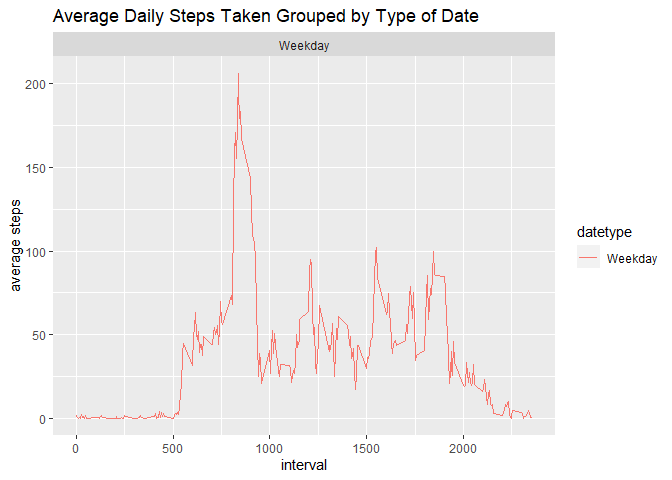
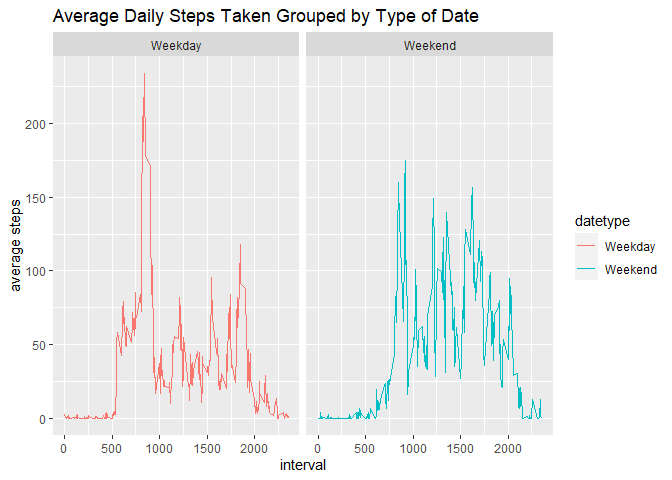
fix: fixed average daily steps taken by date type

diff --git a/PA1_template.html b/PA1_template.html
@@ -171,7 +171,8 @@ pre code {
 <p>Global settings</p>
 <pre class="r"><code>knitr::opts_chunk$set(warning=FALSE) # ignore any warnings</code></pre>
 <p>Before starting the project, let’s import the <strong>ggplot2</strong> libraries for plotting purposes</p>
-<pre class="r"><code>library(ggplot2)</code></pre>
+<pre class="r"><code>library(ggplot2)
+library(knitr)</code></pre>
 <div id="loading-and-preprocessing-the-data" class="section level2">
 <h2>Loading and preprocessing the data</h2>
 <p>The data itself can be found inside the zipped file <code>activity.zip</code>. Extract it and we will get the <code>activity.csv</code> file</p>
@@ -221,7 +222,8 @@ plot(avg_daily_activity$interval, avg_daily_activity$mean, type=&#39;l&#39;, xla
 <div id="imputing-missing-values" class="section level2">
 <h2>Imputing missing values</h2>
 <p>Note that there are a number of days/intervals where there are missing values (coded as <code>NA</code>). The presence of missing days may introduce bias into some calculations or summaries of the data. First, let’s count the number of <code>NA</code> in our data:</p>
-<pre class="r"><code>na_count &lt;- sum(is.na(activity$steps))</code></pre>
+<pre class="r"><code>sum(is.na(activity$steps))</code></pre>
+<pre><code>## [1] 2304</code></pre>
 <p>Now, devise a strategy for filling in all of the missing values in the dataset. The strategy does not need to be sophisticated. For example, you could use the mean/median for that day, or the mean for that 5-minute interval, etc. Then, create a new dataset that is equal to the original dataset but with the missing data filled in.</p>
 <pre class="r"><code>imputer &lt;- avg_daily_activity$mean[match(activity$interval, avg_daily_activity$interval)]
 imputed_activity &lt;- transform(activity, steps=ifelse(is.na(activity$steps), yes=imputer, no=activity$steps))
@@ -240,7 +242,7 @@ Median number of total steps taken each day after imputation: 1.0766189^{4}</p>
 <p>For this part, we should create a new factor variable which divide the data into “weekday” and “weekend”</p>
 <pre class="r"><code>activity$date &lt;- as.Date(strptime(activity$date, format=&#39;%Y-%m-%d&#39;))
 activity$datetype &lt;- sapply(activity$date, function(x) {
-  if(weekdays(x) == &#39;Sábado&#39; | weekdays(x) == &#39;Domingo&#39;) {
+  if(weekdays(x) == &#39;Saturday&#39; | weekdays(x) == &#39;Sunday&#39;) {
     y &lt;- &#39;Weekend&#39;
   } else {
     y &lt;- &#39;Weekday&#39;
@@ -252,7 +254,7 @@ ggplot(activity_by_type, aes(x=interval, y=steps, color=datetype)) +
   geom_line() + 
   facet_wrap(~datetype, ncol=2, nrow=1) + 
   labs(title=&#39;Average Daily Steps Taken Grouped by Type of Date&#39;, x=&#39;interval&#39;, y=&#39;average steps&#39;)</code></pre>
[2 lines of base64/hex data omitted]
 </div>
 
 

diff --git a/PA1_template.md b/PA1_template.md
@@ -15,6 +15,7 @@ Before starting the project, let's import the **ggplot2** libraries for plotting
 
 ```r
 library(ggplot2)
+library(knitr)
 ```
 ## Loading and preprocessing the data
 The data itself can be found inside the zipped file `activity.zip`. Extract it and we will get the `activity.csv` file
@@ -87,7 +88,11 @@ First, let's count the number of `NA` in our data:
 
 
 ```r
-na_count <- sum(is.na(activity$steps))
+sum(is.na(activity$steps))
+```
+
+```
+## [1] 2304
 ```
 
 Now, devise a strategy for filling in all of the missing values in the dataset. The strategy does not need to be sophisticated. For example, you could use the mean/median for that day, or the mean for that 5-minute interval, etc. Then, create a new dataset that is equal to the original dataset but with the missing data filled in.
@@ -124,7 +129,7 @@ For this part, we should create a new factor variable which divide the data into
 ```r
 activity$date <- as.Date(strptime(activity$date, format='%Y-%m-%d'))
 activity$datetype <- sapply(activity$date, function(x) {
-  if(weekdays(x) == 'Sábado' | weekdays(x) == 'Domingo') {
+  if(weekdays(x) == 'Saturday' | weekdays(x) == 'Sunday') {
     y <- 'Weekend'
   } else {
     y <- 'Weekday'
